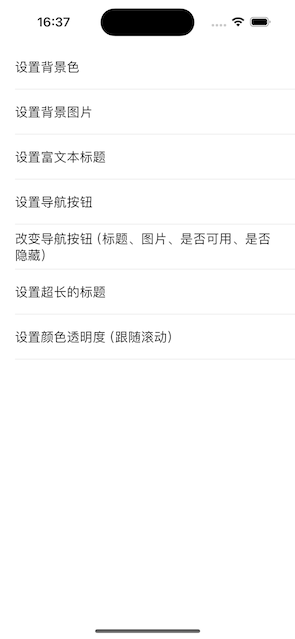
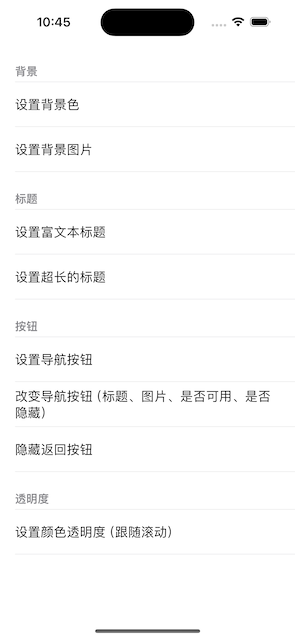
更新readme

diff --git a/README.md b/README.md
@@ -8,32 +8,79 @@
 
 ## Screenshot
 
-### Home
-<img src="./Screenshot/1.png" alt="1" style="zoom:25%;" />
+### Demo
+![1](./Screenshot/1.png)
 
 ### BackgroundColor
 
-<img src="./Screenshot/2.png" alt="2" style="zoom:25%;" />
+```swift
+navBar.barTintColor = .green
+```
+
+![2](./Screenshot/2.png)
 
 ### BackgroundImage
 
-<img src="./Screenshot/3.png" alt="3" style="zoom:25%;" />
+```swift
+AGNavigationBar.Config.backgroundImage = UIImage(named: "bg")
+```
+
+![3](./Screenshot/3.png)
 
 ### AttributesTitle
 
-<img src="./Screenshot/4.png" alt="4" style="zoom:25%;" />
+```swift
+navBar.titleTextAttributes = [
+    .foregroundColor: UIColor.blue,
+    .font: UIFont.systemFont(ofSize: 26, weight: .medium)
+]
+```
 
-### BarAction
-
-<img src="./Screenshot/5.png" alt="5" style="zoom:25%;" />
-
-### ChangeAction
-
-![7](./Screenshot/7.gif)
+![4](./Screenshot/4.png)
 
 ### LongTitle
 
-<img src="./Screenshot/6.png" alt="6" style="zoom:25%;" />
+No additional setup required
+
+![6](./Screenshot/6.png)
+
+### BarAction
+
+```swift
+navBar.addAction(AGNavigationBarAction(title: "保存", position: .left))
+navBar.addAction(AGNavigationBarAction(image: "add", position: .right, handler: { _ in
+
+}))
+
+navBar.actionTintColor = .yellow
+```
+
+![5](./Screenshot/5.png)
+
+### ChangeAction
+
+```swift
+navBar.addAction(AGNavigationBarAction(title: "保存", position: .right, handler: { action in
+    action.title = "😁"
+}))
+navBar.addAction(AGNavigationBarAction(title: "朋友圈", position: .right, handler: { action in
+    print("朋友圈")
+    action.isHidden = true
+}))
+navBar.addAction(AGNavigationBarAction(title: "关闭", position: .left, handler: { action in
+    action.isEnabled = false
+}))
+```
+
+![7](./Screenshot/7.gif)
+
+### HideBackAction
+
+```
+navBar.isBackHidden = true
+```
+
+![9](./Screenshot/9.png)
 
 ### ChangeAlpha
 
